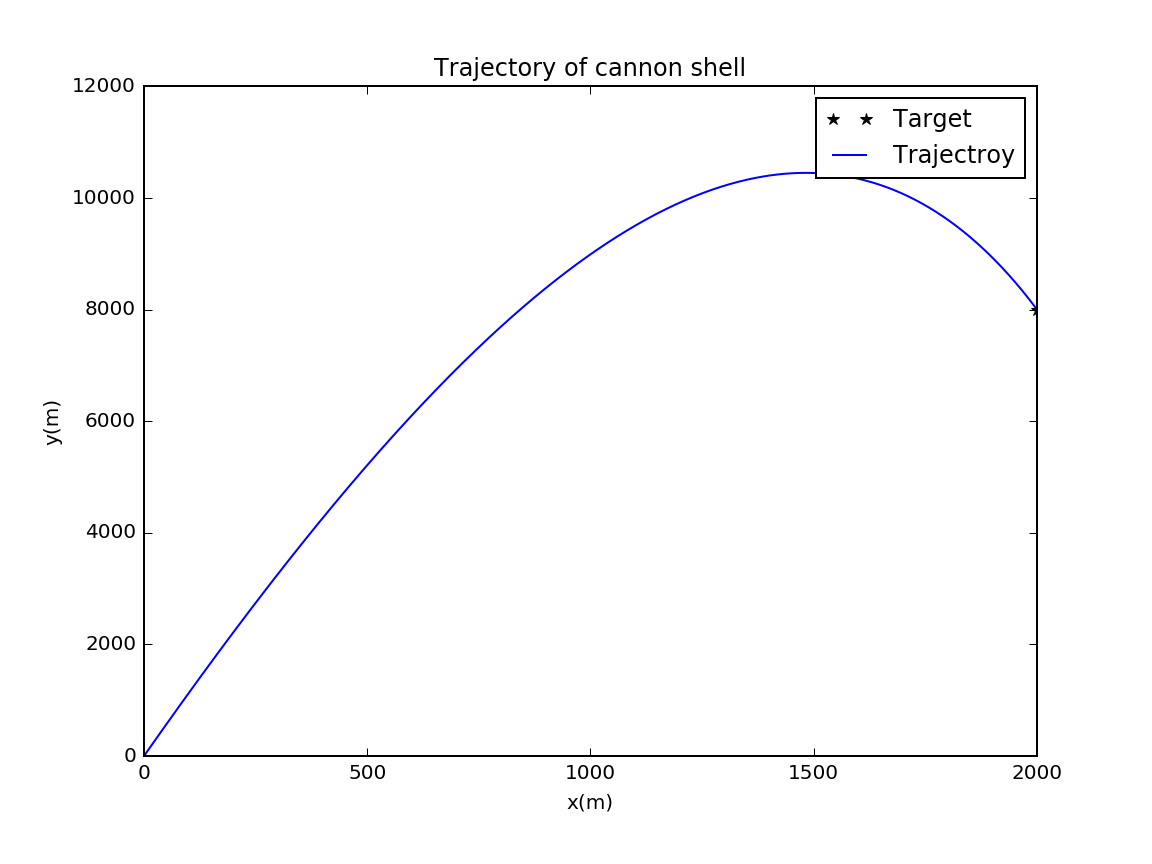
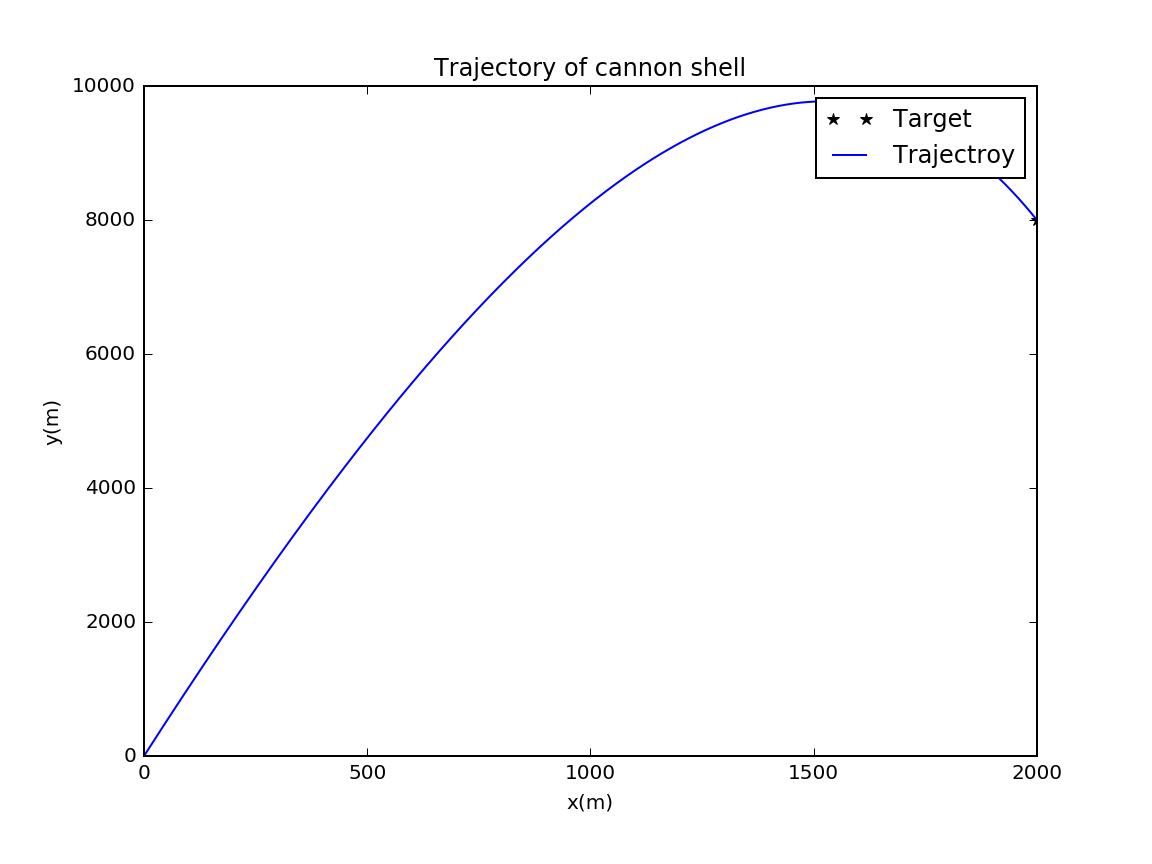
speed upgrade

diff --git a/Exercise/Chapter 2/chapter2_2.10_su.py b/Exercise/Chapter 2/chapter2_2.10_su.py
@@ -4,7 +4,7 @@ Created on Wed Mar 30 11:37:59 2016
 @author: AF
 """
 
-import ode as solving_ode
+import time
 import math
 import matplotlib.pyplot as plt
 
@@ -25,12 +25,29 @@ def correct(string,y_t):           ##### delete all the data of (x,y) where y<0
     return string[0],string[1]
        
 def calculate(v,theta):
-    vx_0 = v * math.cos(theta*math.pi/180)
-    vy_0 = v * math.sin(theta*math.pi/180)
-    A = solving_ode.ode(0.1,0,200,(0,vx_0,0,vy_0))
-    A.set_fx(['v_x','-0.00004*700*v_x*(1-(0.0065*y)/280)**2.5','v_y','-9.8-0.00004*700*v_y*(1-(0.0065*y)/280)**2.5'],['t','x','v_x','y','v_y'])
-    record = A.euler()[:]
-    return correct([record[1][0],record[1][2]],0)
+    vx = []
+    vy = []
+    vx.append( v * math.cos(theta*math.pi/180))
+    vy.append( v * math.sin(theta*math.pi/180))
+    dt = 0.1
+    t = []
+    x = []
+    y = []
+    t.append(0)
+    x.append(0)
+    y.append(0)
+    i = 1
+    while (y[-1] >= 0):
+        x.append(x[i - 1] + vx[i - 1]*dt)
+        vx.append(vx[i - 1] - dt*0.00004*700*vx[i - 1]*(1-(0.0065*y[i - 1])/280)**2.5)
+        y.append(y[i - 1] + vy[i - 1]*dt)
+        vy.append(vy[i - 1]-9.8*dt -dt*0.00004*700*vy[i - 1]*(1-(0.0065*y[i - 1])/280)**2.5)
+        t.append(t[i - 1] + dt)
+        i+= 1
+    r = y[-2] / y[-1]
+    x[-1] = (x[-2] + r * x[-1]) / (r + 1)
+    y[-1] = 0
+    return x, y
    
 def find_maxheight(string):
     for i in range(len(string[1])):
@@ -40,7 +57,7 @@ def find_maxheight(string):
 
 def scan_angle(v,theta, x_t, y_t, degree):
     ran_a = [20, 5, 2, 0.8, 0.2]
-    delta = [5, 1, 0.5, 0.1, 0.02]
+    delta = [1, 0.5, 0.1, 0.05, 0.01]
     theta = theta - ran_a[degree]
     theta_record = []
     x = []
@@ -64,7 +81,7 @@ def scan_angle(v,theta, x_t, y_t, degree):
 
 def scan_v(v,theta, x_target, y_target, degree):
     ran_v = [100, 10, 2, 0.8, 0.2]
-    delta = [20, 2, 0.5, 0.1, 0.02]
+    delta = [10, 2, 0.5, 0.1, 0.02]
     v = v - ran_v[degree]
     x = []
     theta_record = []
@@ -109,8 +126,9 @@ def judge_hitting(string,x_t,y_t):
 
                
 def main():
-    x_target = 800
-    y_target = 8000
+    start = time.clock()
+    x_target = 14000
+    y_target = 6000
 #    theta0 = 180*math.atan(y_target/x_target)/math.pi
     data_record = deep_scan(700,60,x_target,y_target,5)   ### 3 for grade 1, 4 for grade 2 and 5 for grade 3
     v = data_record[0]
@@ -118,16 +136,18 @@ def main():
     cannon_record = correct(calculate(v, theta),y_target)
     x_max = cannon_record[0][-1]
     judge_hitting(cannon_record,x_target,y_target)
-    print x_max
-    print theta
-    print v
+    print '%f ' % x_max
+    print '%f ' % theta
+    print '%f ' %v
+    end = time.clock()
+    print "read: %f s" % (end - start)
     plt.figure(figsize = (8,6))
     plt.title('Trajectory of cannon shell')
     plt.xlabel('x(m)')
     plt.ylabel('y(m)')
     plt.plot(x_target,y_target,'k*',linewidth = 10,label='Target')
     plt.plot(cannon_record[0],cannon_record[1],label= 'Trajectroy')
-    plt.legend()
+    plt.legend(loc = 'upper left')
     plt.savefig('chapter2.png',dpi = 144)
     plt.show()
         
